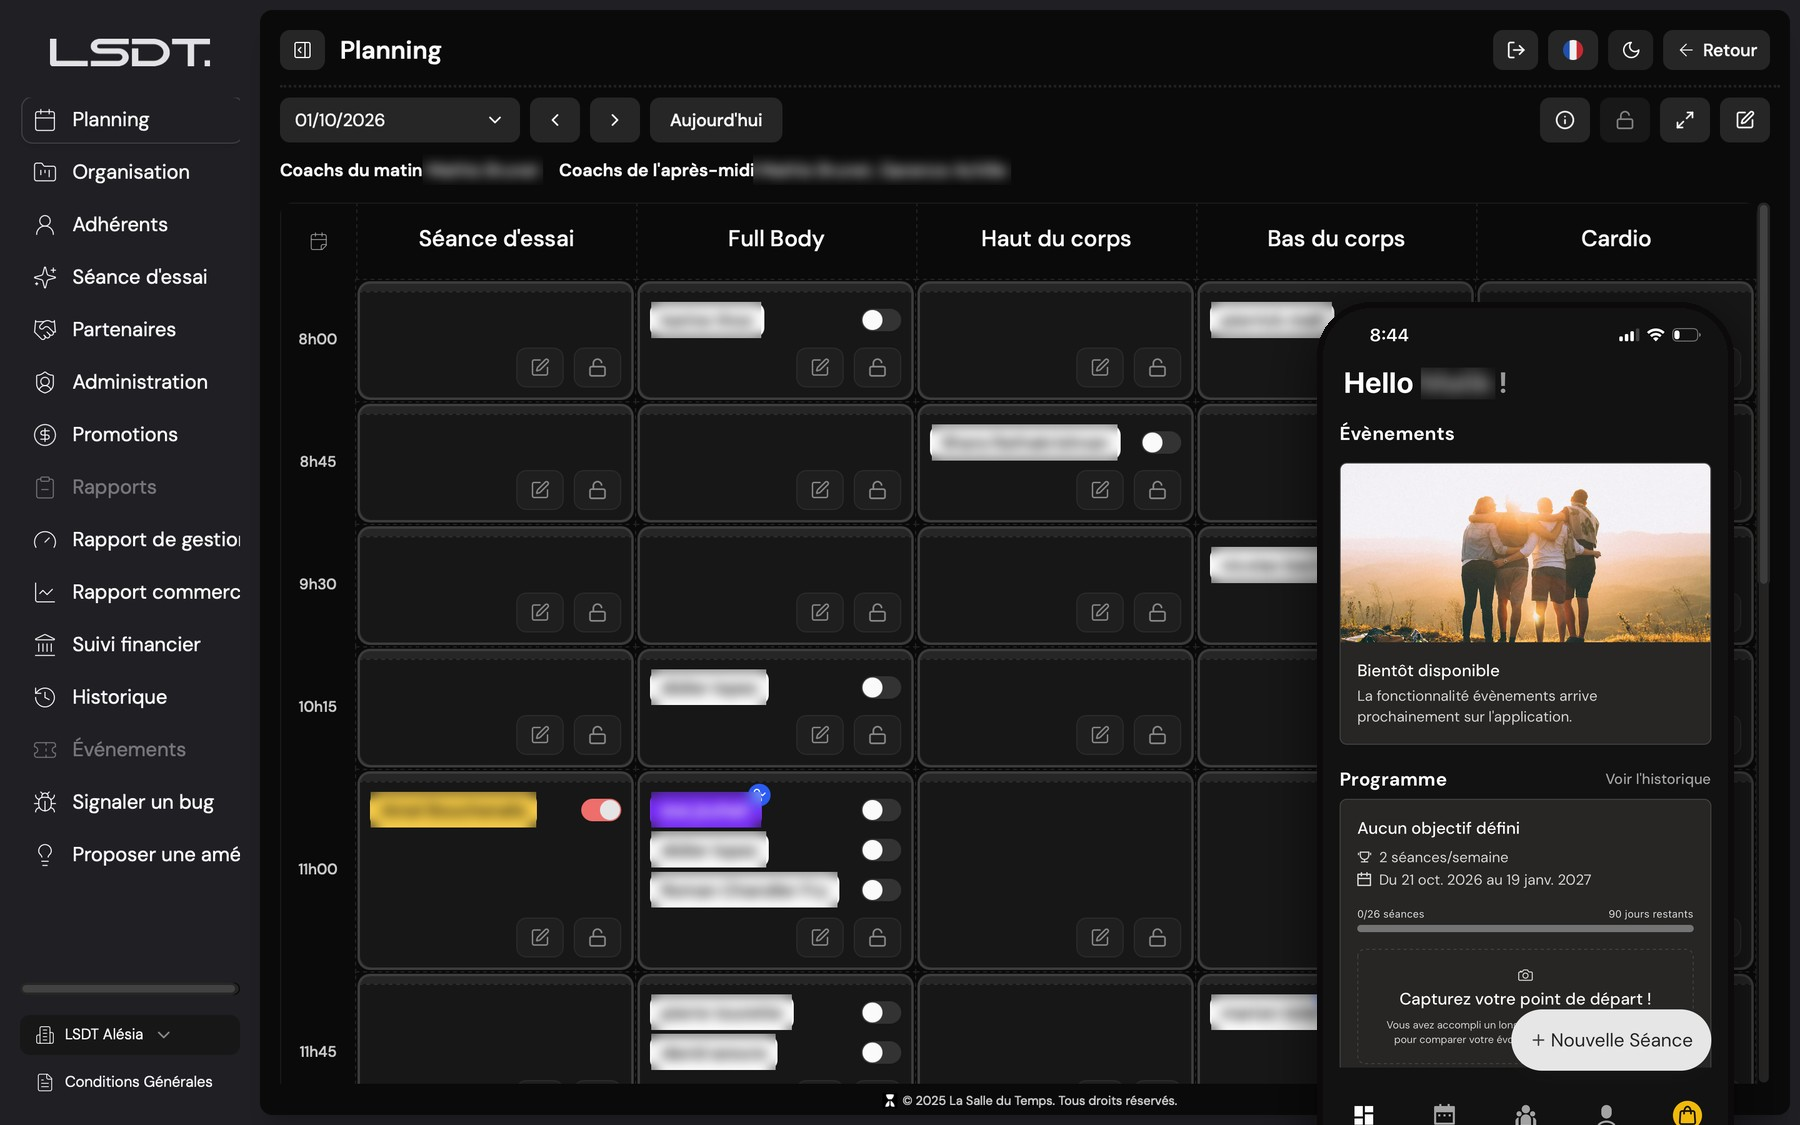
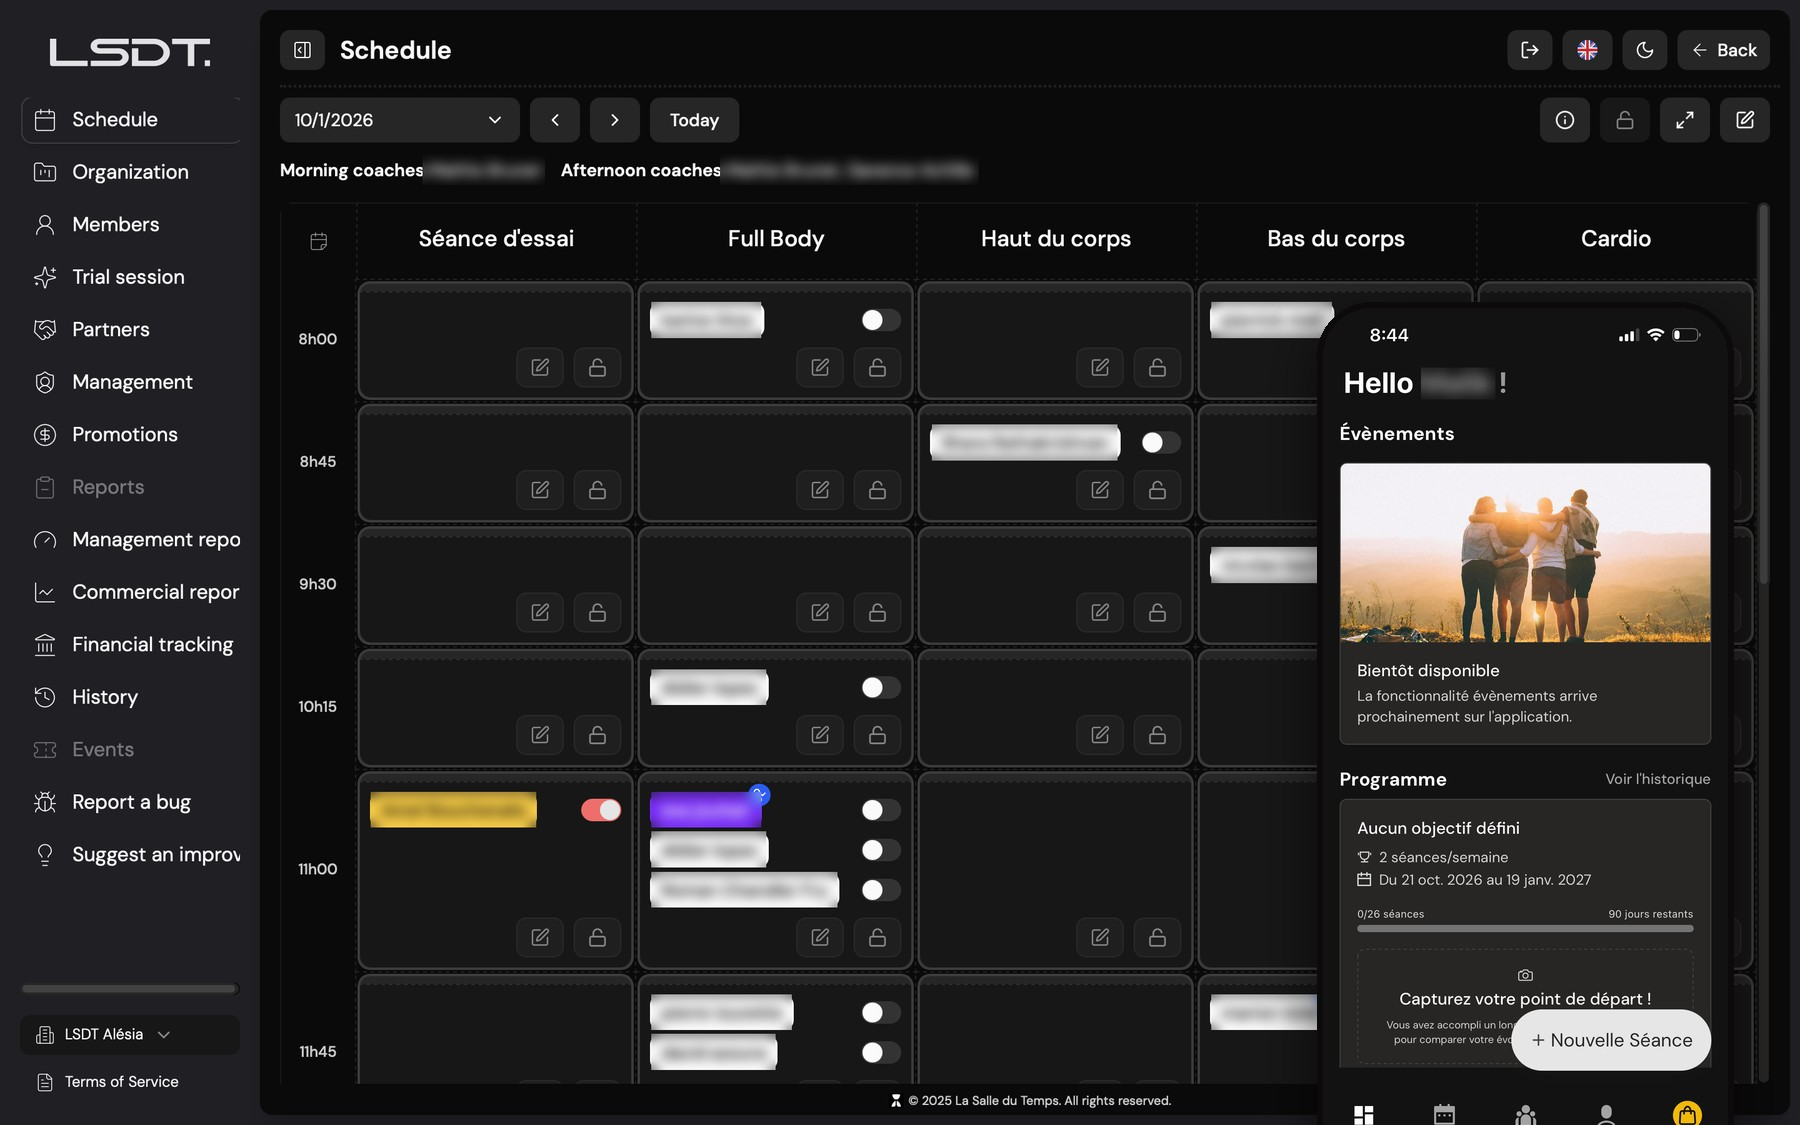
Add the iziClub screenshot and switch the LSDT dashboard to its English UI
Claude-Session: https://claude.ai/code/session_01MyzW3BGD2hVBvERyJHRiSM

diff --git a/src/content/projects.ts b/src/content/projects.ts
@@ -1,5 +1,6 @@
 // Texts in [brackets] are placeholders waiting for Quentin's own words.
 
+import iziclubScreens from "@/assets/screens/iziclub-site-app.jpg";
 import lsdtScreens from "@/assets/screens/lsdt-dashboard-app.jpg";
 import type { Photo } from "./photos";
 
@@ -139,6 +140,11 @@ export const projects: Project[] = [
     summary:
       "An admin dashboard for local sports clubs and a public app to find clubs and events. I lead a team of four, plan the sprints and run the beta with real users.",
     image: "Screenshot · iziClub app",
+    screenshot: {
+      src: iziclubScreens,
+      alt: "The iziClub website, with a club page from the app in front of it",
+      focus: "50% 50%",
+    },
     link: { label: "iziclub.fr", href: "https://iziclub.fr" },
     caseStudy: {
       intro:
